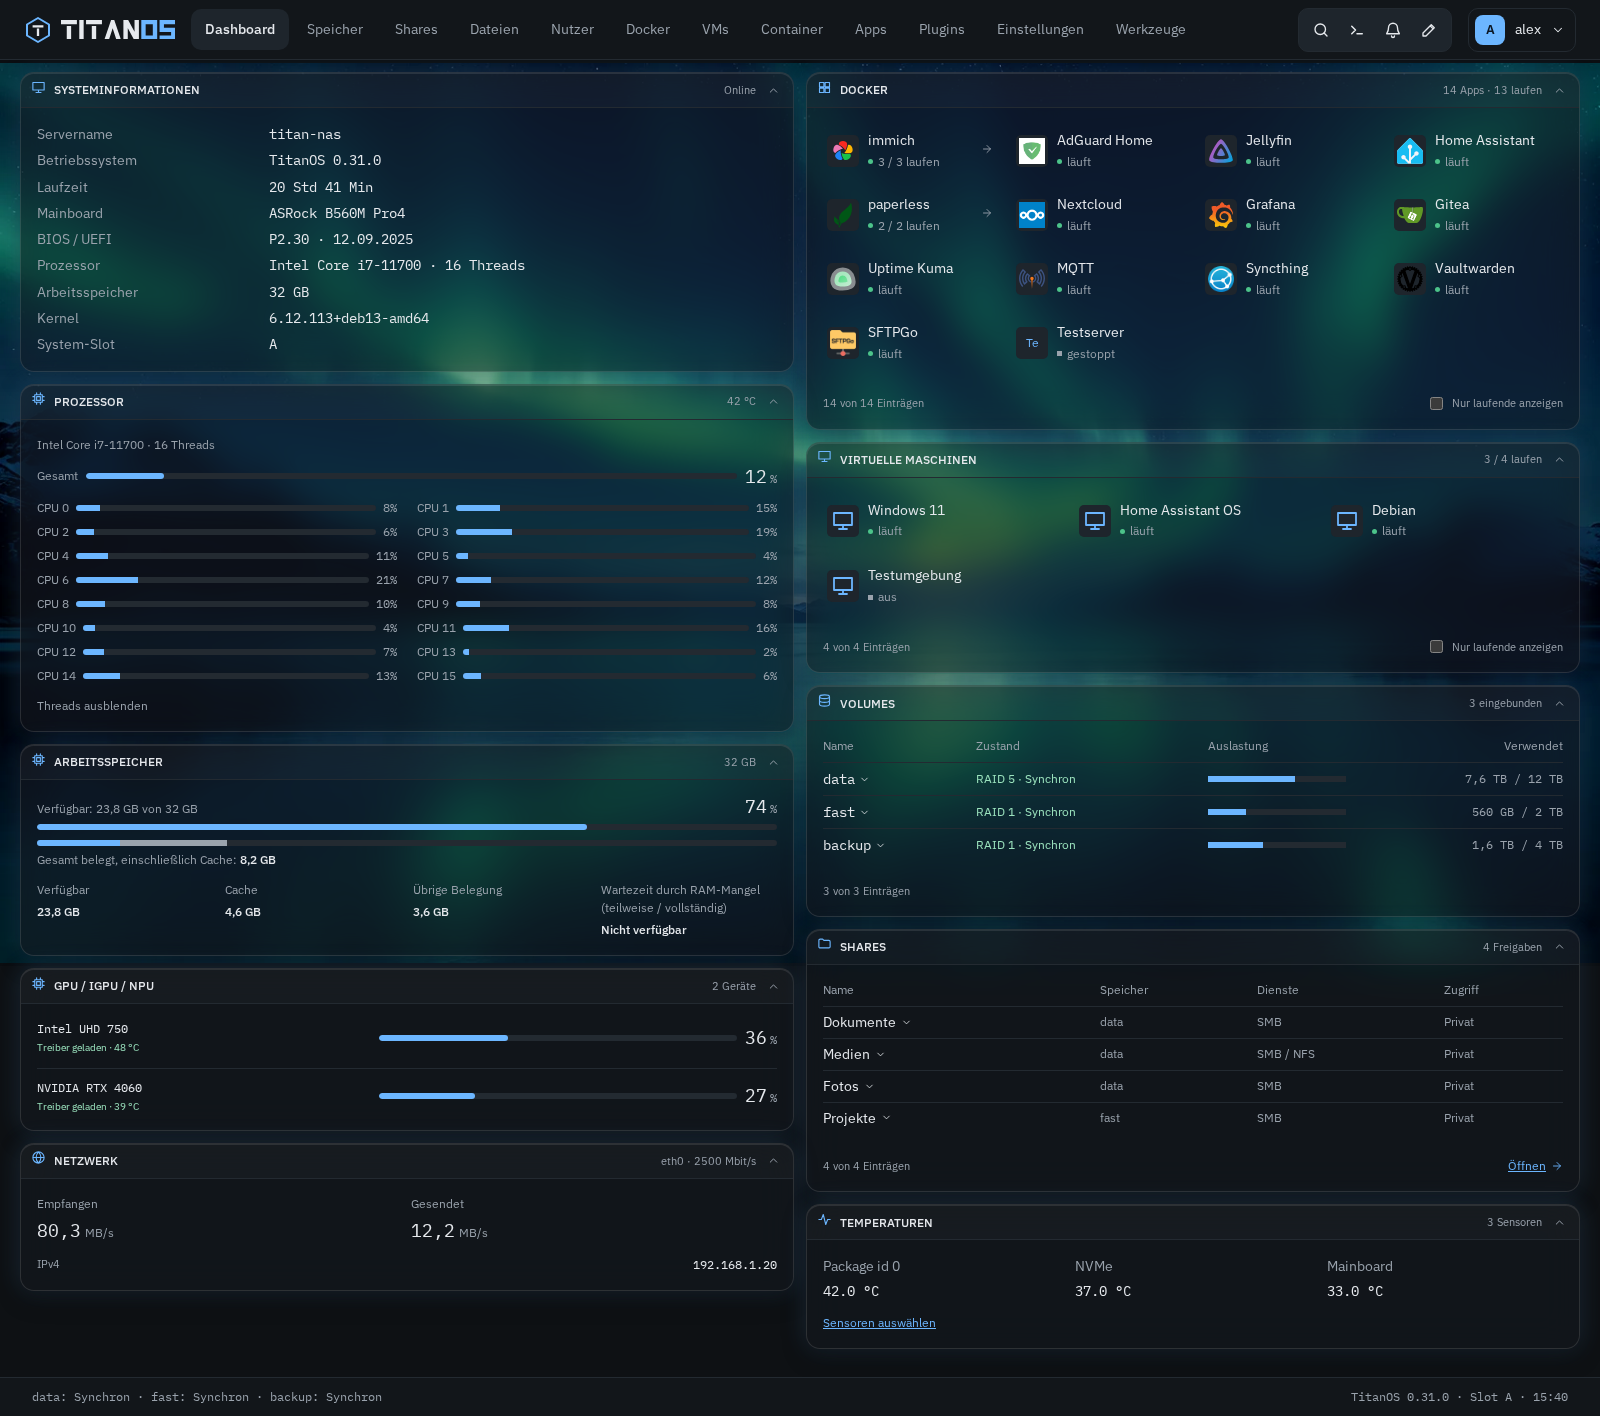
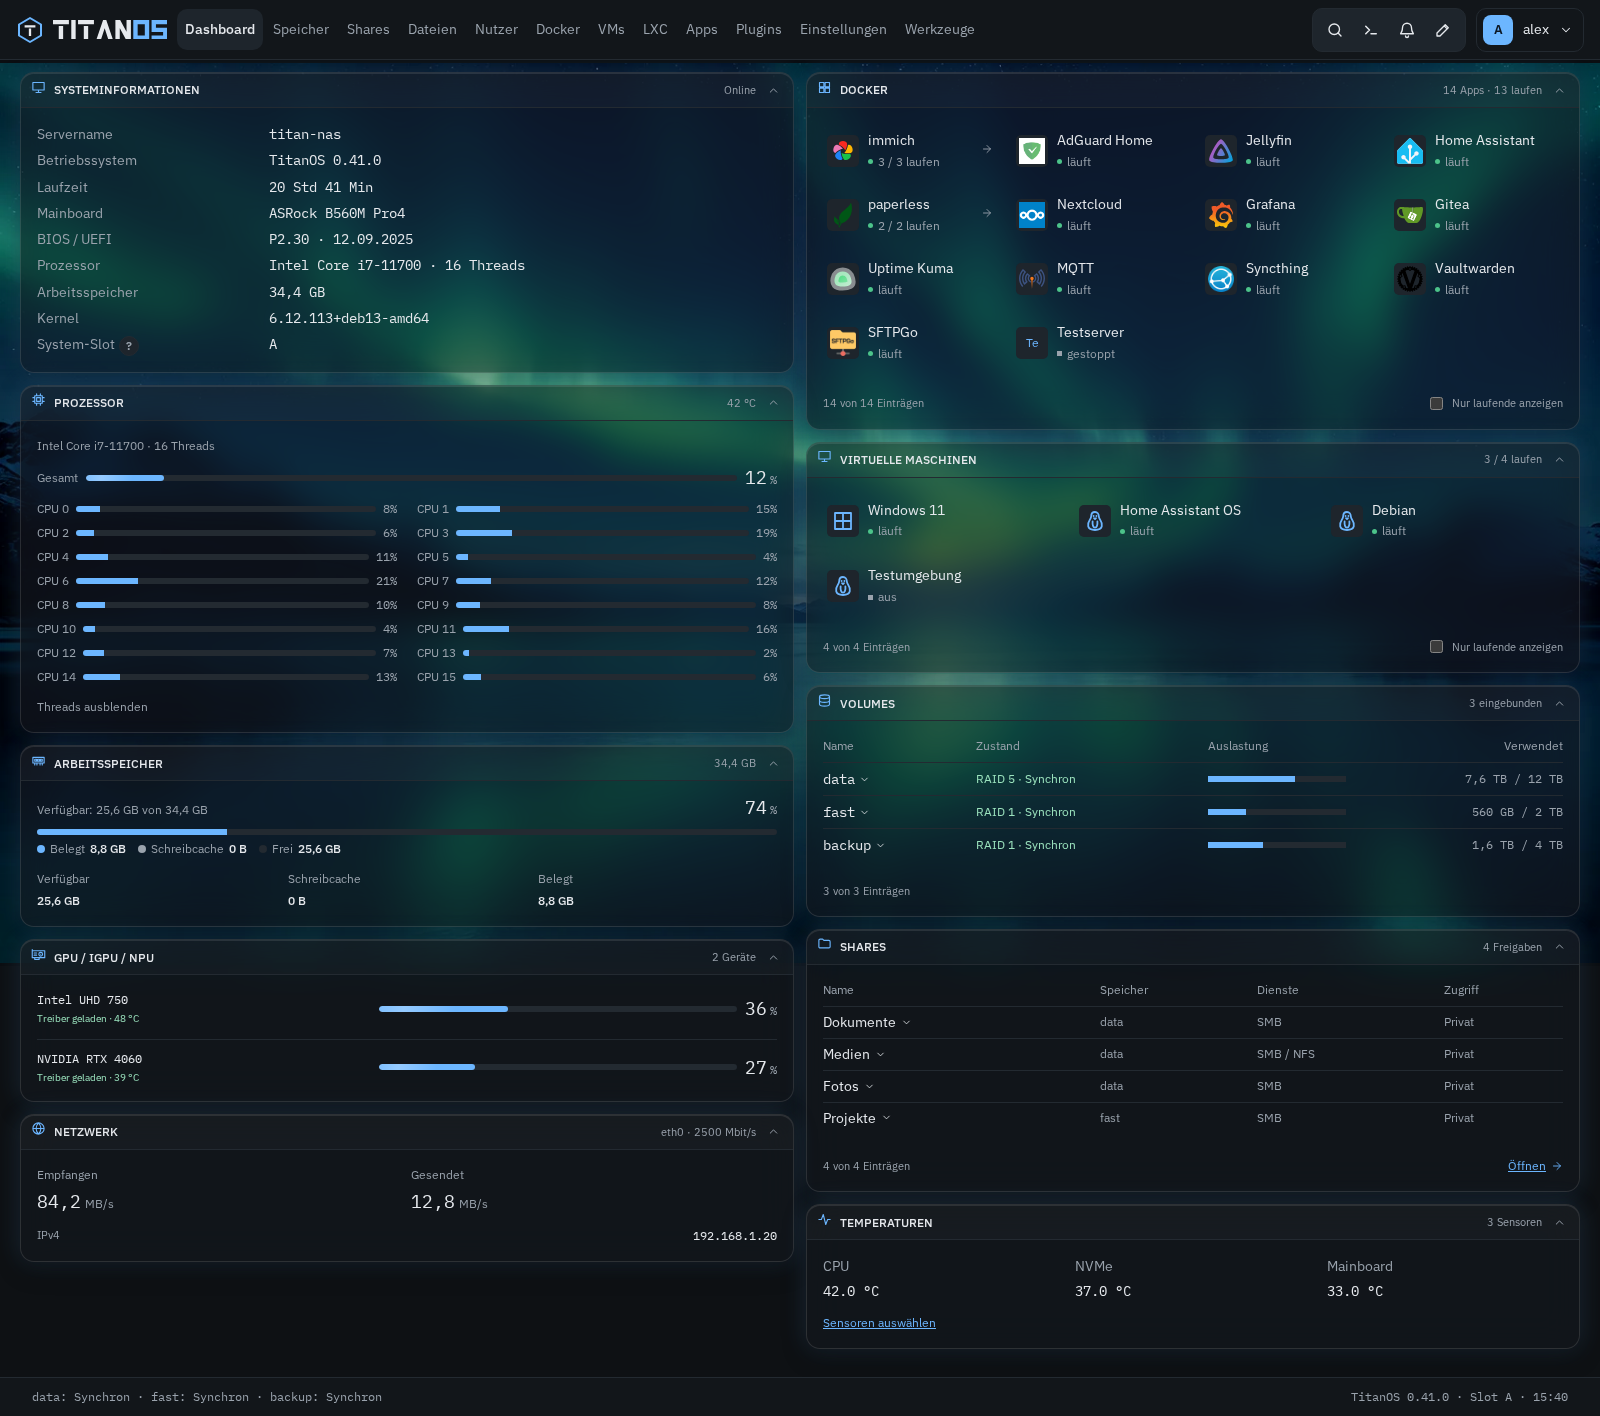
README-Screenshots mit der Oberfläche von 0.41.0 neu aufgenommen

diff --git a/docs/screenshots/README.md b/docs/screenshots/README.md
@@ -2,7 +2,7 @@
 
 `current/` enthält die aktuellen Aufnahmen für die Projekt-README und die Fachdokumente.
 
-**Aufnahmestand:** alle Bilder in `current/` zeigen die gebaute Svelte-WebUI von **TitanOS 0.31.0**, Quellstand [`e923e2c`](https://github.com/ra5on/TitanOS/commit/e923e2c1ea538e2e7a854b76d2613487299377a0), aufgenommen am **28. Oktober 2026** mit Chromium (Playwright), Theme Graphit, blauer Akzent, Glasflächen, Deutsch.
+**Aufnahmestand:** die Bilder aus `capture.mjs` sowie Firewall, VM erstellen, Protokoll, Dateien ersetzen und Dateiaufträge zeigen die gebaute Svelte-WebUI von **TitanOS 0.41.0** (Stand vor der Veröffentlichung, Zweig `grossumbau-0.41`), aufgenommen am **31. Oktober 2026** mit Chromium (Playwright), Theme Graphit, blauer Akzent, Glasflächen, Deutsch. Die Statuszeile von Firewall, VM erstellen und Protokoll nennt die Version der jeweiligen Prüfskripte. Einstellungen, Arbeitsspeicher, App-Images, Netzwerk, Docker-LAN, API-Zugänge, VM-Medien und Plugin-Aufräumen sind noch Aufnahmen von **0.31.0**: `test-ui-firewall.mjs` liefert für die Übersicht derzeit keine brauchbare Aufnahme, `test-ui-memory-images.mjs` und `test-ui-023.mjs` scheitern an veralteten Erwartungen der Skripte (beides nachzuziehen).
 
 **Veraltet (Prüfung 31.10.2026, Plan 9f):** `einstellungen.png` zeigt noch die Übersicht mit zweiter Liste und `docker.png` die frühere Tabelle mit Spalte „PORTS“. Die WebUI zeigt beides so nicht mehr (Übersicht nur „Braucht Aufmerksamkeit“ und „Dieses NAS“, Docker-Liste als Kacheln); die Bilder werden mit der nächsten vollständigen Aufnahme ersetzt.
 
